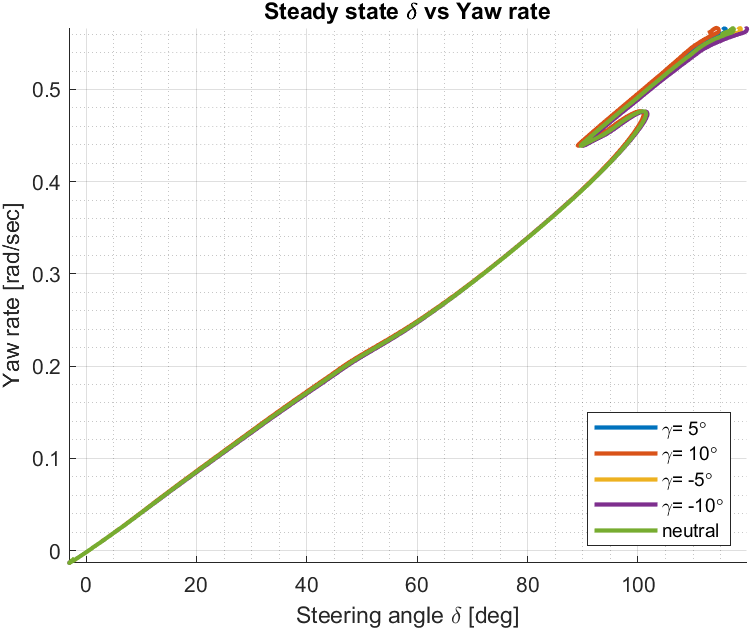
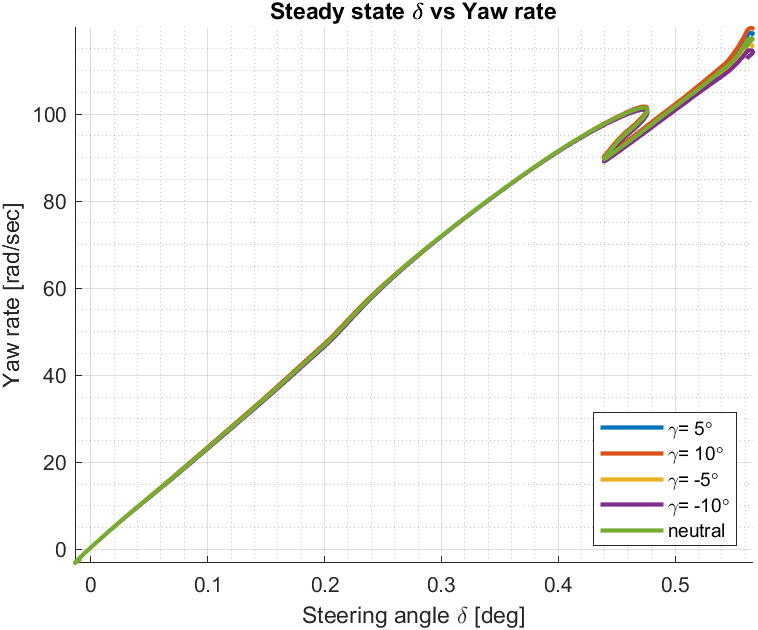
images updated

diff --git a/DATA/Nikhil/Circle_Eight_Data/csv_file/plot_ssa_swa.m b/DATA/Nikhil/Circle_Eight_Data/csv_file/plot_ssa_swa.m
@@ -39,7 +39,7 @@ figure(12);
 for i = 1:size(data,2)   
     hold on;
     %plot(data{i}.data(1000:end-500,7), data{i}.data(1000:end-500,8)*180/pi,'LineWidth',2);
-    plot(data{i}.data(:,8)*180/pi, data{i}.data(:,7),'LineWidth',2);
+    plot(data{i}.data(800:end-500,8)*180/pi, data{i}.data(800:end-500,7),'LineWidth',2);
 end
 grid on;
 grid minor;
